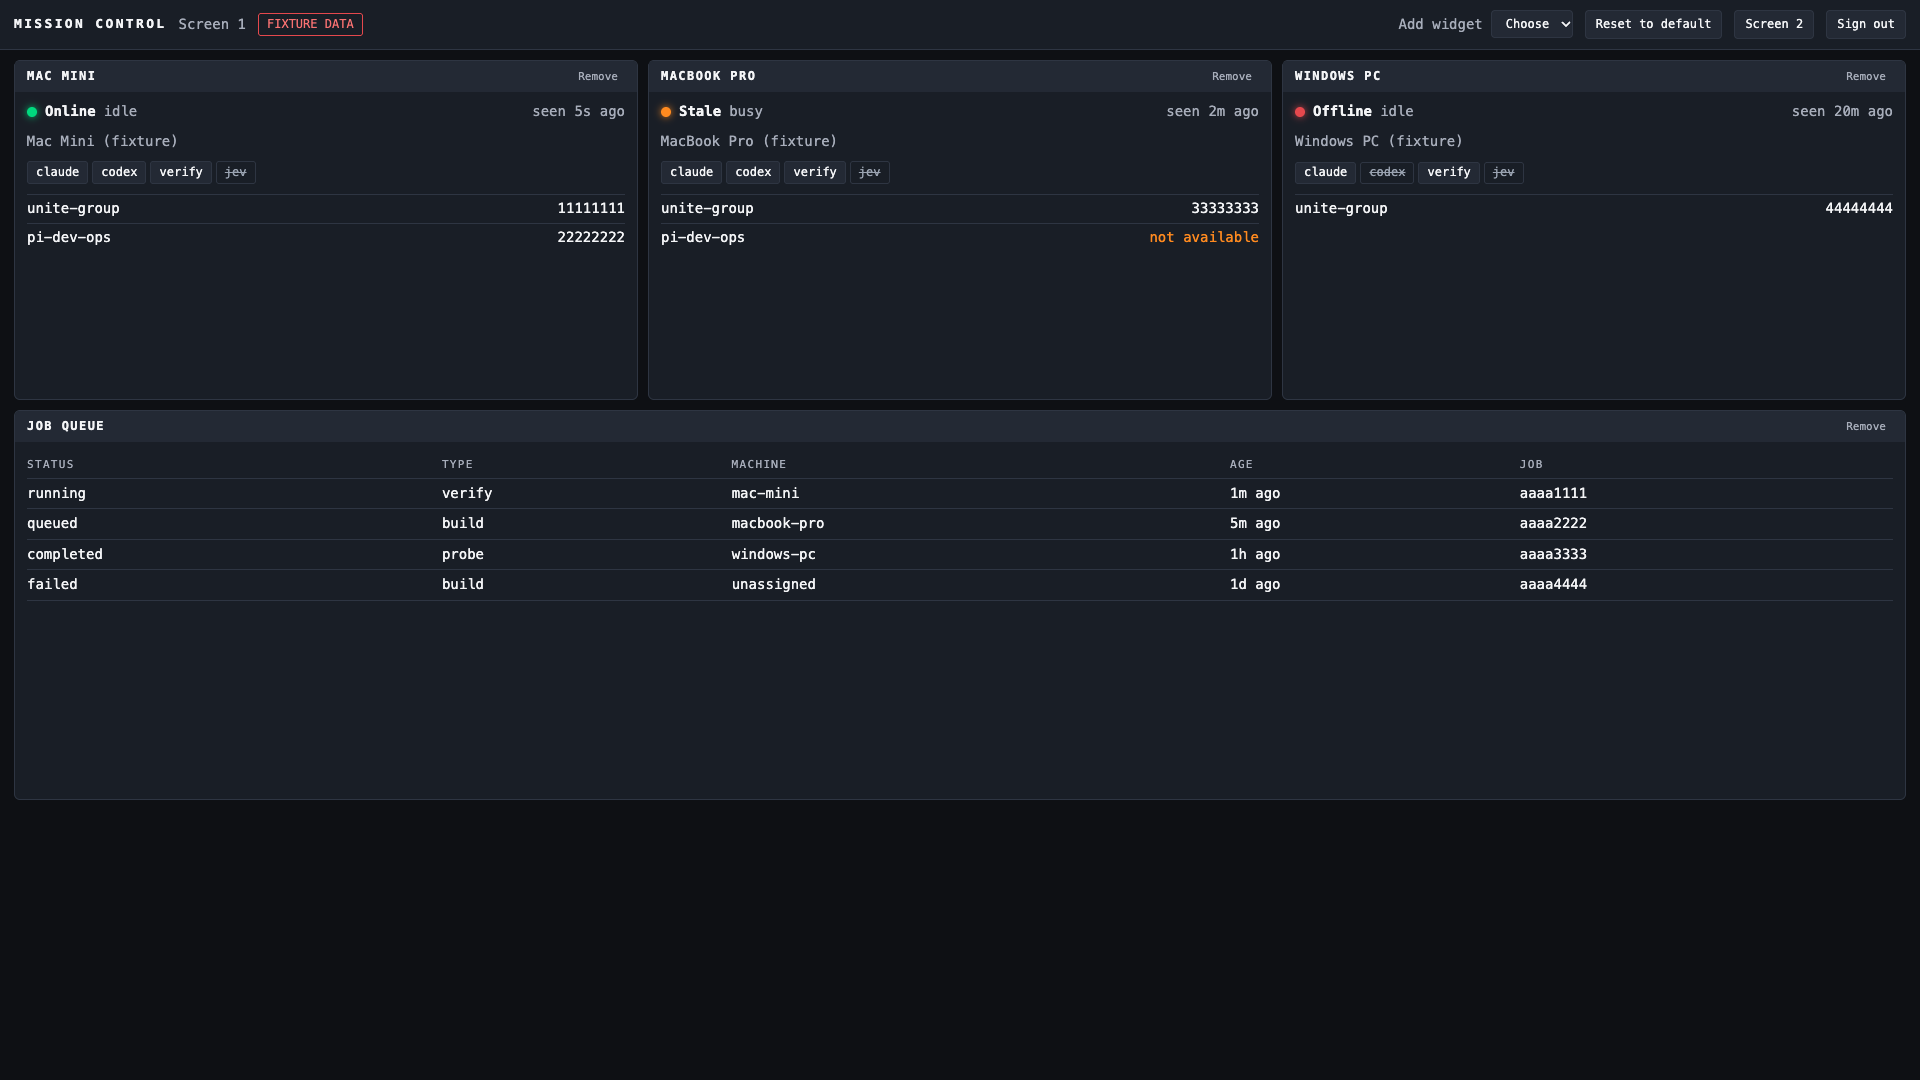
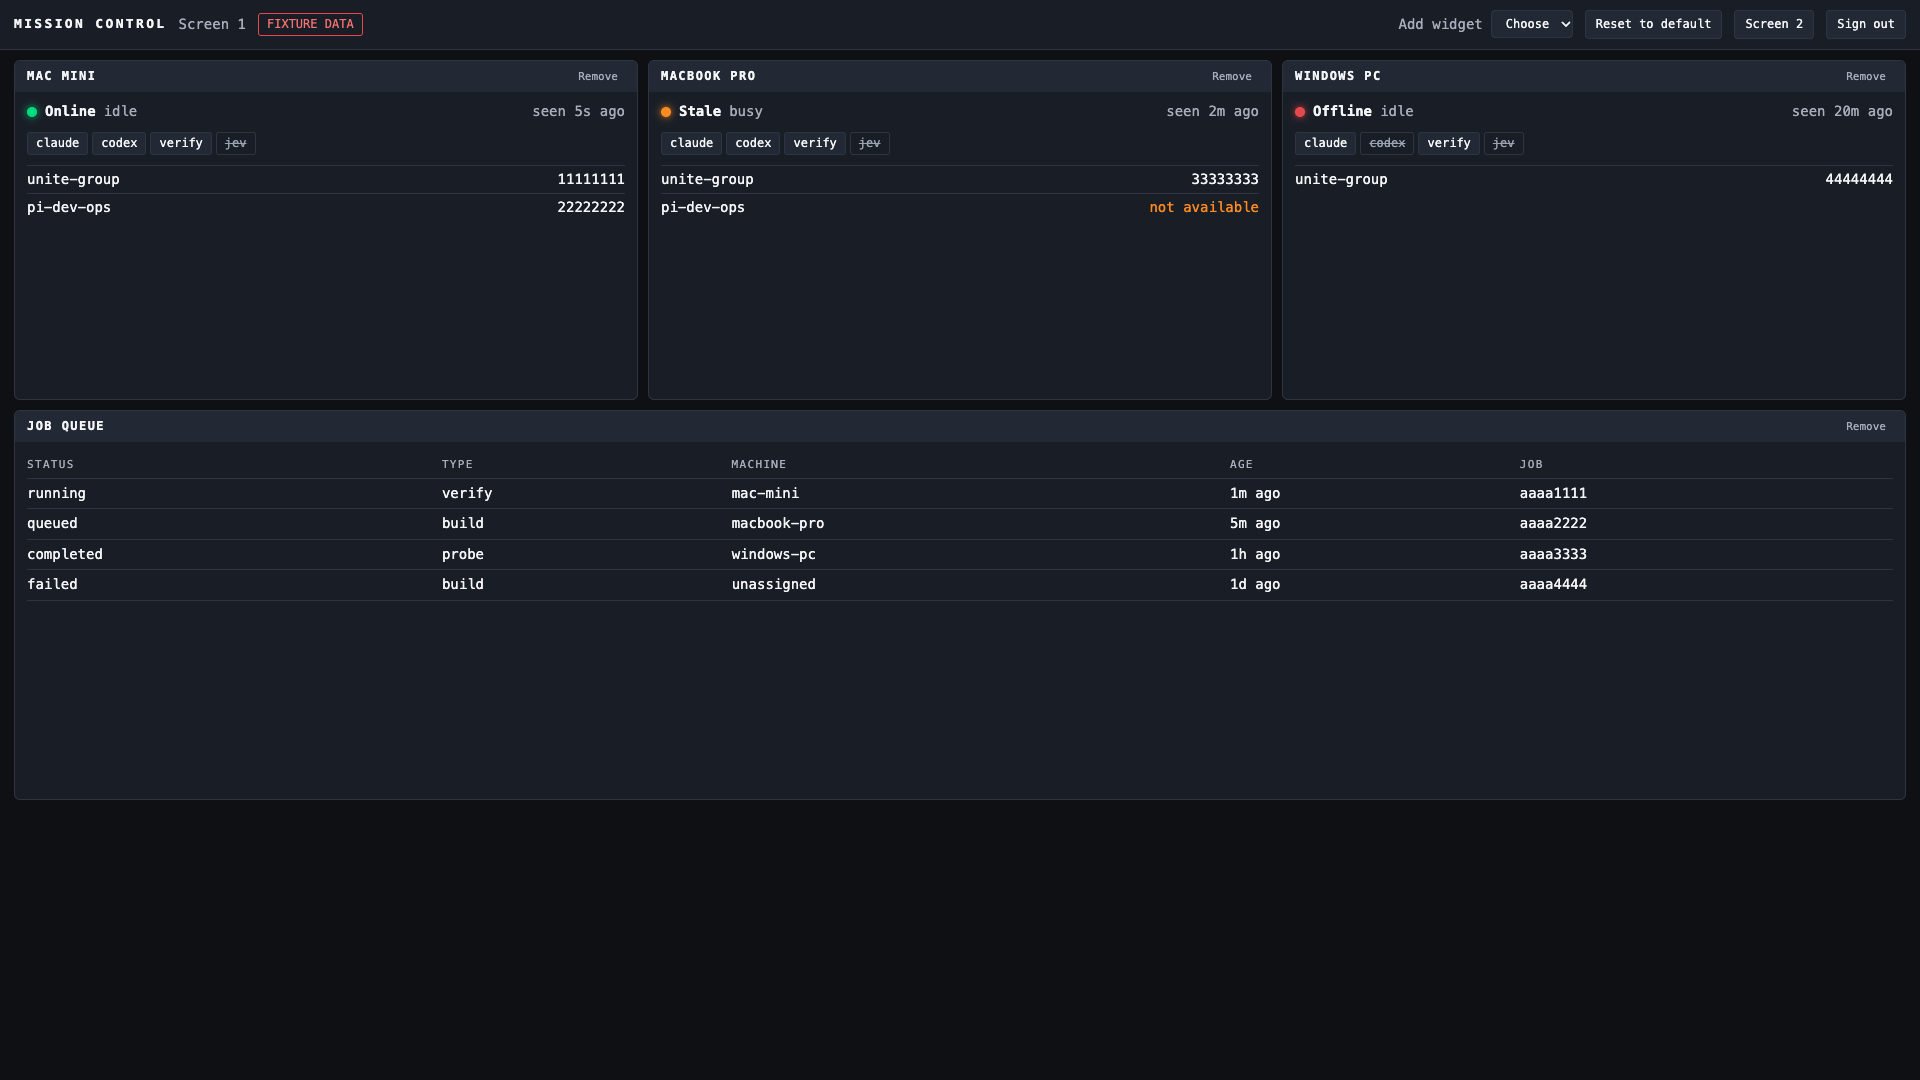
fix(mission-control-local): close round 2 review findings (UNI-3149, UNI-3150)
Names the broker supplies must now be short plain words or they are dropped, and
the free-text machine label no longer reaches the browser, so an unknown token
format cannot pass through. Add and Reset stay disabled until the saved layout has
loaded, so a failed read cannot lead to overwriting it. Screenshots retaken.

Gate: pr-release-gate, Tier 1; Codex round 2 findings on 1f90d485, re-review on this head.

diff --git a/apps/mission-control-local/server/fleet.test.ts b/apps/mission-control-local/server/fleet.test.ts
@@ -60,18 +60,53 @@ test('tailscaleIp appears only on opt-in', () => {
   assert.equal(toFleetView(fixture, NOW, { showTailscaleIp: true })?.machines[0]?.tailscaleIp, '100.64.0.1');
 });
 
-test('secret-shaped text in a passed-through field is scrubbed', () => {
-  const planted = 's' + 'k-' + 'x'.repeat(24);
+test('a broker value that is not a short name never reaches the browser, whatever its format', () => {
+  // A long token no scrubber rule knows, in every field the broker names.
+  const planted = 'Unknownprefix' + 'x'.repeat(30);
+  const spaced = 'run 10.1.2.3';
+  for (const bad of [planted, spaced]) {
+    const view = toFleetView(
+      {
+        machines: [
+          {
+            machineId: 'mac-mini',
+            label: bad,
+            state: bad,
+            capabilities: { [bad]: true, claude: true },
+            repos: { [bad]: { available: true }, 'unite-group': { available: true } },
+          },
+        ],
+        jobs: [{ id: bad, machineId: bad, type: bad, status: bad }],
+      },
+      NOW,
+    );
+    assert.ok(!JSON.stringify(view).includes(bad), bad);
+    assert.equal(view?.machines[0]?.state, 'unknown');
+    assert.deepEqual(view?.machines[0]?.capabilities, [{ name: 'claude', enabled: true }]);
+    assert.deepEqual(view?.machines[0]?.repos.map((r) => r.name), ['unite-group']);
+    assert.deepEqual(view?.jobs[0], { id: 'unknown', type: 'unknown', status: 'unknown', machineId: null, createdAt: null, ageMs: null });
+  }
+});
+
+test('real broker names pass the name rule unchanged', () => {
   const view = toFleetView(
     {
-      machines: [{ machineId: 'mac-mini', label: `box ${planted} 10.1.2.3`, state: 'idle' }],
-      jobs: [{ id: 'j1', type: `run ${planted}`, status: 'queued' }],
+      machines: [{ machineId: 'mac-mini', state: 'idle', capabilities: { workspaceGuard: true }, repos: { 'pi-dev-ops': { available: true } } }],
+      jobs: [{ id: 'cbeaca5e-e8ec-4ff6-a292-9aaa3a2ade51', machineId: 'macbook-pro', type: 'probe', status: 'completed' }],
     },
     NOW,
   );
+  assert.equal(view?.machines[0]?.state, 'idle');
+  assert.equal(view?.machines[0]?.capabilities[0]?.name, 'workspaceGuard');
+  assert.equal(view?.machines[0]?.repos[0]?.name, 'pi-dev-ops');
+  assert.deepEqual(view?.jobs[0], { id: 'cbeaca5e', machineId: 'macbook-pro', type: 'probe', status: 'completed', createdAt: null, ageMs: null });
+});
+
+test('a secret-shaped short name is still scrubbed by the second layer', () => {
+  const planted = 's' + 'k-' + 'x'.repeat(16);
+  const view = toFleetView({ machines: [], jobs: [{ id: 'abc', type: planted, status: 'queued' }] }, NOW);
   const out = JSON.stringify(view);
   assert.ok(!out.includes(planted));
-  assert.ok(!out.includes('10.1.2.3'));
   assert.ok(out.includes('[secret]'));
 });
 
@@ -91,11 +126,11 @@ test('redaction covers each rule and leaves plain words alone', () => {
 });
 
 test('jobs come newest first and are capped, with the true total kept', () => {
-  const jobs = Array.from({ length: MAX_JOBS + 5 }, (_, n) => ({ id: `job-${n}`, createdAt: 1000 + n }));
+  const jobs = Array.from({ length: MAX_JOBS + 5 }, (_, n) => ({ id: `${n}`.padStart(8, '0'), createdAt: 1000 + n }));
   const view = toFleetView({ machines: [], jobs }, NOW);
   assert.equal(view?.jobs.length, MAX_JOBS);
   assert.equal(view?.jobsTotal, MAX_JOBS + 5);
-  assert.equal(view?.jobs[0]?.id, `job-${MAX_JOBS + 4}`.slice(0, 8));
+  assert.equal(view?.jobs[0]?.id, `${MAX_JOBS + 4}`.padStart(8, '0'));
 });
 
 test('an opted-in tailscaleIp that is not a bare IP is dropped', () => {

diff --git a/apps/mission-control-local/server/fleet.ts b/apps/mission-control-local/server/fleet.ts
@@ -12,7 +12,12 @@ export const MAX_JOBS = 50;
 type Dict = Record<string, unknown>;
 
 const isDict = (v: unknown): v is Dict => typeof v === 'object' && v !== null && !Array.isArray(v);
-const text = (v: unknown, fallback: string): string => (typeof v === 'string' && v ? v : fallback);
+// Everything the broker names (state, type, repo, capability) is a short word. Holding
+// those fields to that shape is what keeps a stray value out; the scrubber only backs it up.
+const SAFE_NAME = /^[A-Za-z][A-Za-z0-9_-]{0,23}$/;
+const JOB_ID = /^[0-9a-f-]{1,36}$/i;
+const isSafeName = (v: unknown): v is string => typeof v === 'string' && SAFE_NAME.test(v);
+const text = (v: unknown, fallback: string): string => (isSafeName(v) ? v : fallback);
 const time = (v: unknown): number | null =>
   typeof v === 'number' && Number.isFinite(v) && v > 0 ? v : null;
 const age = (at: number | null, now: number): number | null =>
@@ -30,7 +35,7 @@ function shortSha(v: unknown): string | null {
 
 function repoViews(v: unknown): RepoView[] {
   if (!isDict(v)) return [];
-  return Object.entries(v).map(([name, repo]) => ({
+  return Object.entries(v).filter(([name]) => isSafeName(name)).map(([name, repo]) => ({
     name,
     available: isDict(repo) && repo.available === true,
     headSha: isDict(repo) ? shortSha(repo.headSha) : null,
@@ -42,13 +47,14 @@ function machineView(raw: Dict, now: number, showIp: boolean): MachineView {
   const ageMs = age(lastSeenAt, now);
   const view: MachineView = {
     id: text(raw.machineId, 'unknown'),
-    label: text(raw.label, text(raw.machineId, 'unknown')),
     state: text(raw.state, 'unknown'),
     health: healthFor(ageMs),
     lastSeenAt,
     ageMs,
     capabilities: isDict(raw.capabilities)
-      ? Object.entries(raw.capabilities).map(([name, on]) => ({ name, enabled: on === true }))
+      ? Object.entries(raw.capabilities)
+          .filter(([name]) => isSafeName(name))
+          .map(([name, on]) => ({ name, enabled: on === true }))
       : [],
     repos: repoViews(raw.repos),
   };
@@ -62,10 +68,10 @@ function machineView(raw: Dict, now: number, showIp: boolean): MachineView {
 function jobView(raw: Dict, now: number): JobView {
   const createdAt = time(raw.createdAt);
   return {
-    id: text(raw.id, 'unknown').slice(0, 8),
+    id: typeof raw.id === 'string' && JOB_ID.test(raw.id) ? raw.id.slice(0, 8) : 'unknown',
     type: text(raw.type, 'unknown'),
     status: text(raw.status, 'unknown'),
-    machineId: typeof raw.machineId === 'string' ? raw.machineId : null,
+    machineId: isSafeName(raw.machineId) ? raw.machineId : null,
     createdAt,
     ageMs: age(createdAt, now),
   };

diff --git a/apps/mission-control-local/src/Screen.tsx b/apps/mission-control-local/src/Screen.tsx
@@ -4,7 +4,7 @@ import { useCallback, useEffect, useMemo, useState } from 'react';
 import ReactGridLayout, { useContainerWidth } from 'react-grid-layout';
 import { createLatestWins } from '../shared/latest-wins.ts';
 import type { LayoutItem, LayoutResponse, ScreenId } from '../shared/types.ts';
-import { GRID_COLS, WIDGET_CATALOGUE } from '../shared/widget-catalogue.ts';
+import { addableWidgets, GRID_COLS, WIDGET_CATALOGUE } from '../shared/widget-catalogue.ts';
 import type { WidgetId } from '../shared/widget-catalogue.ts';
 import { WIDGET_COMPONENTS } from './registry.tsx';
 import { useFleet } from './useFleet.tsx';
@@ -109,7 +109,8 @@ export function Screen({ screen }: { screen: ScreenId }) {
 
   const remove = (id: string) => save(items.filter((box) => box.i !== id));
 
-  const available = WIDGET_CATALOGUE.filter((w) => !items.some((box) => box.i === w.id));
+  const loaded = load === 'ready';
+  const available = addableWidgets(loaded, items);
   const other = screen === '1' ? '2' : '1';
   const onStop = (layout: readonly GridBox[]) => save(plain(layout));
 
@@ -129,7 +130,9 @@ export function Screen({ screen }: { screen: ScreenId }) {
             disabled={available.length === 0}
             onChange={(event) => add(event.target.value)}
           >
-            <option value="">{available.length === 0 ? 'All on screen' : 'Choose'}</option>
+            <option value="">
+              {!loaded ? 'Layout not loaded' : available.length === 0 ? 'All on screen' : 'Choose'}
+            </option>
             {available.map((w) => (
               <option key={w.id} value={w.id}>
                 {w.title}
@@ -137,7 +140,7 @@ export function Screen({ screen }: { screen: ScreenId }) {
             ))}
           </select>
         </label>
-        <button type="button" className={styles.button} onClick={reset}>
+        <button type="button" className={styles.button} onClick={reset} disabled={!loaded}>
           Reset to default
         </button>
         <a className={styles.button} href={`/screen/${other}`}>

diff --git a/apps/mission-control-local/shared/shared.test.ts b/apps/mission-control-local/shared/shared.test.ts
@@ -2,7 +2,7 @@ import assert from 'node:assert/strict';
 import { test } from 'node:test';
 import { formatAge } from './format.ts';
 import { createLatestWins } from './latest-wins.ts';
-import { DEFAULT_LAYOUTS, GRID_COLS, parseLayoutItems } from './widget-catalogue.ts';
+import { addableWidgets, DEFAULT_LAYOUTS, GRID_COLS, parseLayoutItems, WIDGET_CATALOGUE } from './widget-catalogue.ts';
 
 function harness() {
   const calls: string[] = [];
@@ -86,6 +86,14 @@ test('parseLayoutItems refuses bad layouts', () => {
   assert.equal(parseLayoutItems([{ ...box, x: GRID_COLS }]), null);
   assert.equal(parseLayoutItems([{ ...box, w: 1.5 }]), null);
   assert.equal(parseLayoutItems([{ ...box, h: 0 }]), null);
+});
+
+test('nothing can be added until the saved layout has loaded', () => {
+  assert.deepEqual(addableWidgets(false, []), []);
+  const onScreen = [{ i: 'clock', x: 0, y: 0, w: 2, h: 2 }];
+  const offered = addableWidgets(true, onScreen).map((w) => w.id as string);
+  assert.equal(offered.length, WIDGET_CATALOGUE.length - 1);
+  assert.ok(!offered.includes('clock'));
 });
 
 test('parseLayoutItems drops extra fields', () => {

diff --git a/apps/mission-control-local/shared/widget-catalogue.ts b/apps/mission-control-local/shared/widget-catalogue.ts
@@ -40,6 +40,15 @@ export const DEFAULT_LAYOUTS: Record<ScreenId, readonly LayoutItem[]> = {
   ],
 };
 
+/**
+ * What the Add menu offers. Empty until the saved layout has loaded: the first
+ * change writes the whole screen, so editing an unread layout would overwrite it.
+ */
+export function addableWidgets(loaded: boolean, items: readonly LayoutItem[]) {
+  if (!loaded) return [];
+  return WIDGET_CATALOGUE.filter((w) => !items.some((box) => box.i === w.id));
+}
+
 /** Returns the valid layout, or null. Rejects unknown widgets, duplicates and off-grid boxes. */
 export function parseLayoutItems(value: unknown): LayoutItem[] | null {
   if (!Array.isArray(value) || value.length > WIDGET_CATALOGUE.length) return null;

diff --git a/apps/mission-control-local/src/widgets/MachineWidget.tsx b/apps/mission-control-local/src/widgets/MachineWidget.tsx
@@ -25,7 +25,6 @@ export function MachineWidget({ machineId }: { machineId: MachineId }) {
               <span className={styles.muted}>{machine.state}</span>
               <span className={styles.push}>seen {formatAge(machine.ageMs)}</span>
             </div>
-            <div className={styles.muted}>{machine.label}</div>
             {machine.tailscaleIp ? <div className={styles.muted}>{machine.tailscaleIp}</div> : null}
             <ul className={styles.chips} aria-label="Capabilities">
               {machine.capabilities.map((c) => (

diff --git a/apps/mission-control-local/shared/types.ts b/apps/mission-control-local/shared/types.ts
@@ -19,7 +19,6 @@ export interface RepoView {
 
 export interface MachineView {
   id: string;
-  label: string;
   state: string;
   health: MachineHealth;
   lastSeenAt: number | null;

diff --git a/apps/mission-control-local/README.md b/apps/mission-control-local/README.md
@@ -30,7 +30,7 @@ The bind address has no setting.
 
 ## Fleet data
 
-`server/broker.ts` is the only code that talks to the broker, and it sends one request: `GET http://127.0.0.1:42137/status`. `server/fleet.ts` copies named fields into the view in `shared/types.ts`, so hostnames, paths, refs and job results stay on the server, and anything new the broker adds stays out until someone adds it. `server/redact.ts` then scrubs the text that remains.
+`server/broker.ts` is the only code that talks to the broker, and it sends one request: `GET http://127.0.0.1:42137/status`. `server/fleet.ts` copies named fields into the view in `shared/types.ts`, so hostnames, paths, refs and job results stay on the server, and anything new the broker adds stays out until someone adds it. Names the broker supplies (state, job type, repo, capability) must be short plain words or they are dropped, and `server/redact.ts` then scrubs what remains.
 
 A machine shows stale after 60 seconds without a heartbeat and offline after 5 minutes. A failed broker read shows "Broker down" on every fleet widget, never an empty list.
 
